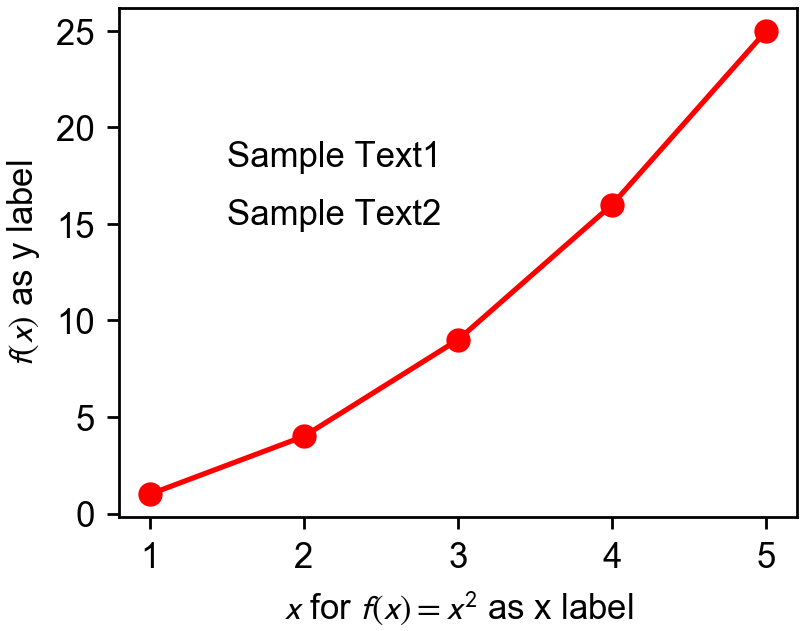
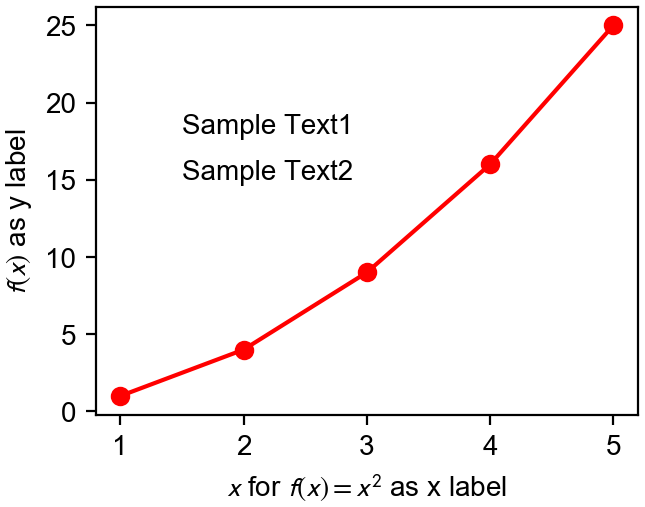
update Readme and examples

diff --git a/README.md b/README.md
@@ -7,10 +7,14 @@ Simply replace plt.savefig with savefig_changing_font as follows:
     $ python
     >>> import matplotlib.pyplot as plt
     >>> from plot_changing_font import plot_chaging_font as savecf
-    >>> x = [1,2,3]
-    >>> y = [1,4,9]
-    >>> plt.plot(x,y)
-    >>> savecf(fmt="png") # default fmt is "pdf"
+    >>> x = [1,2,3,4,5]
+    >>> y = [1,4,9,16,25]
+    >>> plt.plot(x,y,"ro-")
+    >>> plt.xlabel("$x$ for $f(x)=x^2$ as x label")
+    >>> plt.ylabel("$f(x)$ as y label")
+    >>> plt.annotate("Sample Text1",[1.5,18])
+    >>> plt.annotate("Sample Text2",[1.5,15],fontname="Arial")
+    >>> savecf(fmt="png",dpi=200) # default fmt is "pdf"
 
  Then you can see following three files:
 
@@ -19,3 +23,5 @@ Simply replace plt.savefig with savefig_changing_font as follows:
 ![image with times new roman](https://github.com/ehki/savefig-changing-font/blob/master/out_times.png?raw=true "out_times.png")
 
 ![image with arial](https://github.com/ehki/savefig-changing-font/blob/master/out_arial.png?raw=true "out_arial.png")
+
+See 
